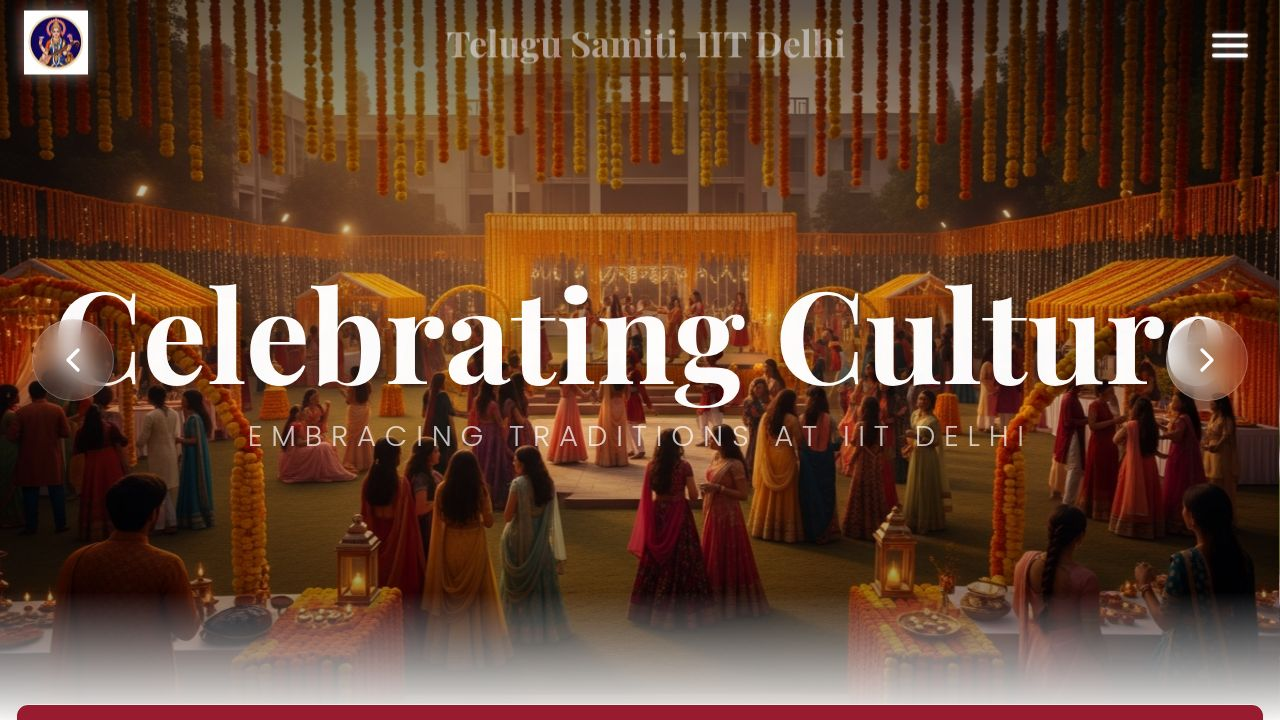
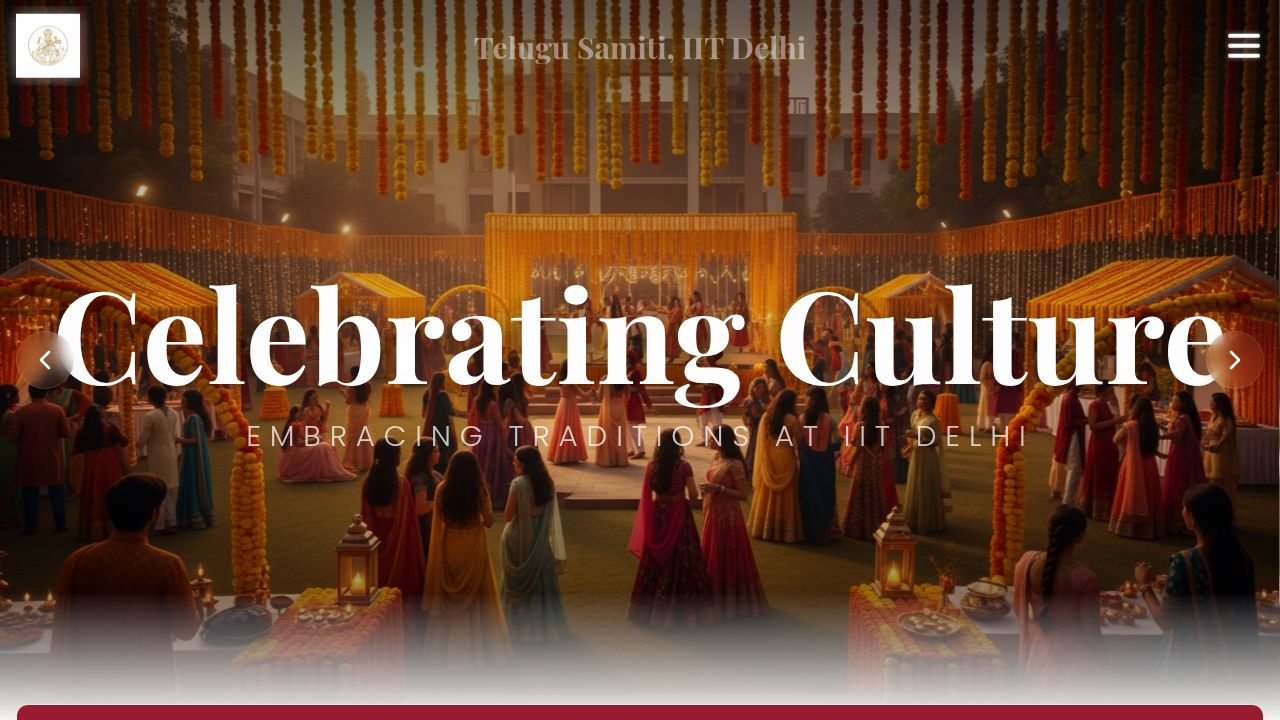
Refine page layout and slideshow for better responsiveness and appearance
Adjust title and slideshow elements for responsive design, update navigation arrow styling, and modify text transition timings for smoother animations.

Replit-Commit-Author: Agent
Replit-Commit-Session-Id: 76981c7d-9d9f-465b-b3d4-b3bdc527ec16
Replit-Commit-Checkpoint-Type: full_checkpoint
Replit-Commit-Event-Id: 5b3e6de7-e868-49c3-ab13-f2fe66454431
Replit-Commit-Screenshot-Url: https://storage.googleapis.com/screenshot-production-us-central1/662260f0-61ba-44db-9853-680f6f80be20/76981c7d-9d9f-465b-b3d4-b3bdc527ec16/KJLOM8k
Replit-Helium-Checkpoint-Created: true

diff --git a/client/src/components/Navbar.tsx b/client/src/components/Navbar.tsx
@@ -15,7 +15,7 @@ export function Navbar() {
     
     const interval = setInterval(() => {
       setIsTelugu(prev => !prev);
-    }, 4000);
+    }, 5000); // Slower transition for smoothness
 
     return () => {
       window.removeEventListener("scroll", handleScroll);
@@ -35,56 +35,45 @@ export function Navbar() {
   return (
     <motion.nav
       className={`fixed top-0 left-0 right-0 z-50 transition-all duration-700 ${
-        scrolled || isOpen ? "bg-primary shadow-lg py-2" : "bg-transparent py-4"
+        scrolled || isOpen ? "bg-primary shadow-lg py-1" : "bg-transparent py-4"
       }`}
       initial={{ y: -100 }}
       animate={{ y: 0 }}
       transition={{ duration: 0.5 }}
     >
-      <div className="container mx-auto px-6 h-20 flex items-center justify-between">
+      <div className="container mx-auto px-4 h-20 flex items-center justify-between overflow-hidden">
         {/* Left Logo */}
-        <div className="flex-shrink-0">
+        <div className="flex-shrink-0 w-12 md:w-16">
           <img 
             src="/src/assets/deity_logo.png" 
             alt="Cultural Logo" 
-            className="h-16 w-16 object-contain drop-shadow-[0_0_8px_rgba(255,255,255,0.5)]"
+            className="h-12 w-12 md:h-16 md:w-16 object-contain drop-shadow-[0_0_8px_rgba(255,255,255,0.5)]"
           />
         </div>
         
-        {/* Centered Symmetrical Title */}
-        <div className="flex-grow flex flex-col items-center justify-center overflow-hidden h-16 relative">
+        {/* Centered Symmetrical Title - Responsive Font Size */}
+        <div className="flex-grow flex flex-col items-center justify-center overflow-hidden h-16 relative px-2">
           <AnimatePresence mode="wait">
-            {isTelugu ? (
-              <motion.h1
-                key="telugu"
-                initial={{ y: 30, opacity: 0 }}
-                animate={{ y: 0, opacity: 1 }}
-                exit={{ y: -30, opacity: 0 }}
-                transition={{ duration: 0.8, ease: "anticipate" }}
-                className="text-2xl md:text-4xl font-serif font-bold text-white drop-shadow-[0_0_15px_rgba(255,215,0,0.8)] text-center whitespace-nowrap animate-pulse"
-              >
-                తెలుగు సమితి, ఐఐటీ ఢిల్లీ
-              </motion.h1>
-            ) : (
-              <motion.h1
-                key="english"
-                initial={{ y: 30, opacity: 0 }}
-                animate={{ y: 0, opacity: 1 }}
-                exit={{ y: -30, opacity: 0 }}
-                transition={{ duration: 0.8, ease: "anticipate" }}
-                className="text-2xl md:text-4xl font-serif font-bold text-white drop-shadow-[0_0_15px_rgba(255,215,0,0.8)] text-center whitespace-nowrap animate-pulse"
-              >
-                Telugu Samiti, IIT Delhi
-              </motion.h1>
-            )}
+            <motion.div
+              key={isTelugu ? "telugu" : "english"}
+              initial={{ y: 20, opacity: 0 }}
+              animate={{ y: 0, opacity: 1 }}
+              exit={{ y: -20, opacity: 0 }}
+              transition={{ duration: 1.2, ease: "easeInOut" }} // Smoother transition
+              className="text-center"
+            >
+              <h1 className="text-base sm:text-lg md:text-2xl lg:text-3xl font-serif font-bold text-white drop-shadow-[0_0_10px_rgba(255,215,0,0.6)] whitespace-normal line-clamp-2 leading-tight animate-pulse">
+                {isTelugu ? "తెలుగు సమితి, ఐఐటీ ఢిల్లీ" : "Telugu Samiti, IIT Delhi"}
+              </h1>
+            </motion.div>
           </AnimatePresence>
         </div>
 
         {/* Right 3-Pin Menu */}
-        <div className="flex-shrink-0">
+        <div className="flex-shrink-0 w-12 md:w-16 flex justify-end">
           <button
             onClick={() => setIsOpen(!isOpen)}
-            className="p-2 rounded-full text-white hover:bg-white/10 transition-colors"
+            className="p-1 rounded-full text-white hover:bg-white/10 transition-colors"
           >
             <AnimatePresence mode="wait">
               {isOpen ? (
@@ -94,7 +83,7 @@ export function Navbar() {
                   animate={{ rotate: 0, opacity: 1 }}
                   exit={{ rotate: 90, opacity: 0 }}
                 >
-                  <X size={36} />
+                  <X size={28} className="md:w-9 md:h-9" />
                 </motion.div>
               ) : (
                 <motion.div
@@ -102,11 +91,11 @@ export function Navbar() {
                   initial={{ rotate: 90, opacity: 0 }}
                   animate={{ rotate: 0, opacity: 1 }}
                   exit={{ rotate: -90, opacity: 0 }}
-                  className="flex flex-col space-y-1.5"
+                  className="flex flex-col space-y-1 md:space-y-1.5"
                 >
-                  <span className="w-9 h-1 bg-white rounded-full shadow-[0_0_5px_rgba(255,255,255,0.5)]"></span>
-                  <span className="w-9 h-1 bg-white rounded-full shadow-[0_0_5px_rgba(255,255,255,0.5)]"></span>
-                  <span className="w-9 h-1 bg-white rounded-full shadow-[0_0_5px_rgba(255,255,255,0.5)]"></span>
+                  <span className="w-6 h-1 md:w-8 md:h-1 bg-white rounded-full shadow-[0_0_5px_rgba(255,255,255,0.5)]"></span>
+                  <span className="w-6 h-1 md:w-8 md:h-1 bg-white rounded-full shadow-[0_0_5px_rgba(255,255,255,0.5)]"></span>
+                  <span className="w-6 h-1 md:w-8 md:h-1 bg-white rounded-full shadow-[0_0_5px_rgba(255,255,255,0.5)]"></span>
                 </motion.div>
               )}
             </AnimatePresence>
@@ -128,7 +117,7 @@ export function Navbar() {
                 <motion.a
                   key={link.name}
                   href={link.href}
-                  className="text-3xl font-serif font-bold text-white hover:text-secondary pl-4 border-l-4 border-transparent hover:border-secondary transition-all"
+                  className="text-2xl font-serif font-bold text-white hover:text-secondary pl-4 border-l-4 border-transparent hover:border-secondary transition-all"
                   initial={{ x: -20, opacity: 0 }}
                   animate={{ x: 0, opacity: 1 }}
                   transition={{ delay: index * 0.1 }}

diff --git a/client/src/index.css b/client/src/index.css
@@ -34,132 +34,53 @@
 }
 
 :root {
-  /* Elegant, Cultural Palette */
-  /* Background: Soft Off-White */
   --background: 40 20% 97%; 
-  /* Foreground: Deep Charcoal */
   --foreground: 220 15% 15%;
-
-  /* Card: Pure White with subtle warmth */
   --card: 0 0% 100%;
   --card-foreground: 220 15% 15%;
-
-  /* Popover */
   --popover: 0 0% 100%;
   --popover-foreground: 220 15% 15%;
-
-  /* Primary: Deep Royal Maroon/Red (Traditional) */
   --primary: 350 70% 35%;
   --primary-foreground: 0 0% 100%;
-
-  /* Secondary: Gold/Ochre (Festive) */
   --secondary: 40 80% 55%;
   --secondary-foreground: 350 70% 25%;
-
-  /* Muted: Soft Greys */
   --muted: 220 10% 94%;
   --muted-foreground: 220 10% 40%;
-
-  /* Accent: Rich Navy (Contrast) */
   --accent: 215 60% 90%;
   --accent-foreground: 215 70% 30%;
-
-  /* Destructive */
   --destructive: 0 84% 60%;
   --destructive-foreground: 0 0% 98%;
-
-  /* Borders & Inputs */
   --border: 220 10% 85%;
   --input: 220 10% 85%;
   --ring: 350 70% 35%;
-
   --radius: 0.75rem;
-}
-
-.dark {
-  /* Dark Mode - potentially for "Fest Mode" later */
-  --background: 220 20% 10%;
-  --foreground: 40 20% 97%;
-
-  --card: 220 20% 14%;
-  --card-foreground: 40 20% 97%;
-
-  --popover: 220 20% 14%;
-  --popover-foreground: 40 20% 97%;
-
-  --primary: 350 70% 55%;
-  --primary-foreground: 0 0% 100%;
-
-  --secondary: 40 80% 55%;
-  --secondary-foreground: 350 70% 25%;
-
-  --muted: 220 20% 20%;
-  --muted-foreground: 220 10% 65%;
-
-  --accent: 215 60% 20%;
-  --accent-foreground: 215 70% 80%;
-
-  --destructive: 0 62% 30%;
-  --destructive-foreground: 0 0% 98%;
-
-  --border: 220 20% 20%;
-  --input: 220 20% 20%;
-  --ring: 350 70% 55%;
 }
 
 @layer base {
   * {
     @apply border-border;
   }
-  body {
-    @apply font-sans antialiased bg-background text-foreground;
+  html, body {
+    @apply bg-background text-foreground overflow-x-hidden w-full;
+    margin: 0;
+    padding: 0;
   }
 }
 
-/* Custom Scrollbar for a polished feel */
-::-webkit-scrollbar {
-  width: 8px;
-}
-::-webkit-scrollbar-track {
-  background: hsl(var(--background));
-}
-::-webkit-scrollbar-thumb {
-  background: hsl(var(--muted-foreground) / 0.3);
-  border-radius: 4px;
-}
-::-webkit-scrollbar-thumb:hover {
-  background: hsl(var(--muted-foreground) / 0.5);
+/* Fix for horizontal scroll issues */
+#root {
+  @apply w-full overflow-x-hidden;
 }
 
-/* Glassmorphism utility */
-.glass {
-  background: rgba(255, 255, 255, 0.7);
-  backdrop-filter: blur(10px);
-  -webkit-backdrop-filter: blur(10px);
-  border-bottom: 1px solid rgba(255, 255, 255, 0.3);
-}
-
-.dark .glass {
-  background: rgba(20, 20, 30, 0.7);
-  border-bottom: 1px solid rgba(255, 255, 255, 0.05);
-}
-
-/* Section Box Style */
 .section-box {
-  @apply bg-card rounded-xl shadow-lg border border-border/40 overflow-hidden relative;
+  @apply bg-card rounded-xl shadow-lg border border-border/40 overflow-hidden relative w-full;
   transition: transform 0.3s ease, box-shadow 0.3s ease;
 }
 
-.section-box:hover {
-  @apply shadow-xl;
-}
-
-/* 3D Perspective for Book Flip */
 .perspective-1000 {
   perspective: 1000px;
 }
 
-/* Animations */
 @keyframes scroll-vertical {
   0% { transform: translateY(0); }
   100% { transform: translateY(-50%); }
@@ -195,7 +116,6 @@
   animation: swing 2s ease-in-out infinite;
 }
 
-/* Gradient Mask for scrolling list */
 .mask-linear-gradient {
   mask-image: linear-gradient(to bottom, transparent, black 10%, black 90%, transparent);
   -webkit-mask-image: linear-gradient(to bottom, transparent, black 10%, black 90%, transparent);

diff --git a/client/src/components/HeroSlideshow.tsx b/client/src/components/HeroSlideshow.tsx
@@ -58,7 +58,7 @@ export function HeroSlideshow() {
                   initial={{ y: 50, opacity: 0 }}
                   animate={{ y: 0, opacity: 1 }}
                   transition={{ duration: 1, ease: "easeOut" }}
-                  className="font-serif text-6xl md:text-8xl lg:text-9xl font-bold text-white mb-6 drop-shadow-[0_5px_15px_rgba(0,0,0,0.8)]"
+                  className="font-serif text-4xl sm:text-6xl md:text-8xl lg:text-9xl font-bold text-white mb-6 drop-shadow-[0_5px_15px_rgba(0,0,0,0.8)]"
                 >
                   {slide.title}
                 </motion.h1>
@@ -67,7 +67,7 @@ export function HeroSlideshow() {
                   initial={{ scale: 0.9, opacity: 0 }}
                   animate={{ scale: 1, opacity: 1 }}
                   transition={{ duration: 1, delay: 0.3 }}
-                  className="font-sans text-xl md:text-3xl text-white/90 font-light tracking-[0.3em] uppercase drop-shadow-md"
+                  className="font-sans text-sm sm:text-lg md:text-2xl lg:text-3xl text-white/90 font-light tracking-[0.2em] sm:tracking-[0.3em] uppercase drop-shadow-md"
                 >
                   {slide.subtitle}
                 </motion.p>
@@ -77,18 +77,18 @@ export function HeroSlideshow() {
         </div>
       </div>
 
-      {/* Navigation Arrows */}
+      {/* Navigation Arrows - Smaller and placed at edges */}
       <button 
         onClick={scrollPrev}
-        className="absolute left-8 top-1/2 -translate-y-1/2 z-30 p-5 rounded-full bg-white/10 text-white hover:bg-primary transition-all duration-500 backdrop-blur-md border border-white/20 group shadow-2xl"
+        className="absolute left-2 sm:left-4 top-1/2 -translate-y-1/2 z-30 p-2 sm:p-3 rounded-full bg-white/5 text-white hover:bg-primary transition-all duration-500 backdrop-blur-sm border border-white/10 group shadow-lg"
       >
-        <ChevronLeft size={40} className="group-hover:-translate-x-1 transition-transform" />
+        <ChevronLeft size={24} className="sm:w-8 sm:h-8 group-hover:-translate-x-1 transition-transform" />
       </button>
       <button 
         onClick={scrollNext}
-        className="absolute right-8 top-1/2 -translate-y-1/2 z-30 p-5 rounded-full bg-white/10 text-white hover:bg-primary transition-all duration-500 backdrop-blur-md border border-white/20 group shadow-2xl"
+        className="absolute right-2 sm:right-4 top-1/2 -translate-y-1/2 z-30 p-2 sm:p-3 rounded-full bg-white/5 text-white hover:bg-primary transition-all duration-500 backdrop-blur-sm border border-white/10 group shadow-lg"
       >
-        <ChevronRight size={40} className="group-hover:translate-x-1 transition-transform" />
+        <ChevronRight size={24} className="sm:w-8 sm:h-8 group-hover:translate-x-1 transition-transform" />
       </button>
       
       {/* Visual Depth Gradient */}
